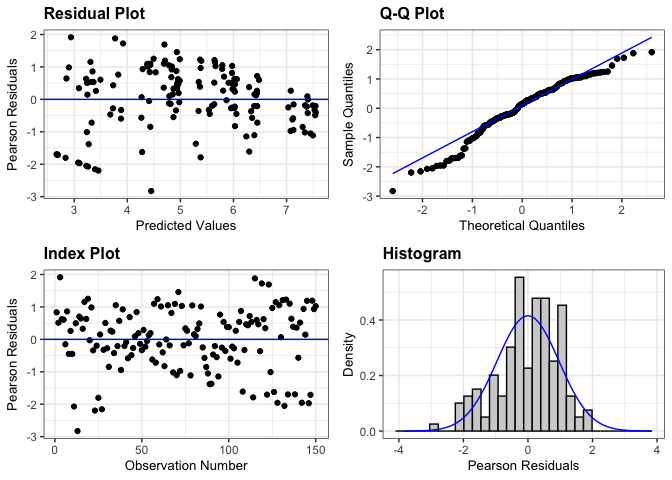
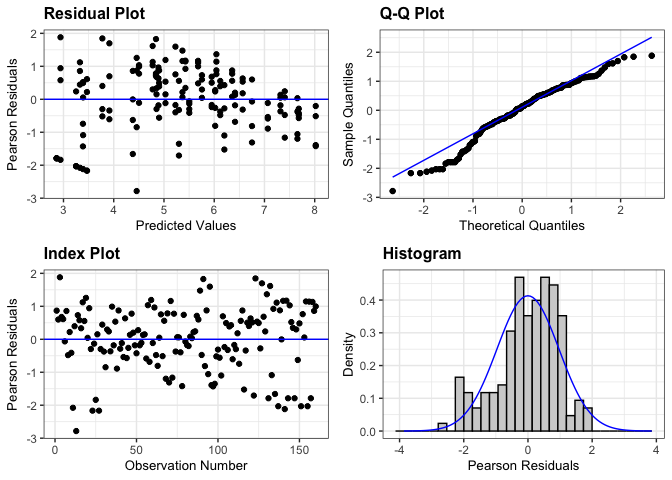
commit

diff --git a/rmarkdowns/weed_biomass_2023.md b/rmarkdowns/weed_biomass_2023.md
@@ -134,7 +134,7 @@ all_clean_2023 <- clean_names(all_raw_2023) |>
 #select and convert data for wbm analysis
   
 all_wbm_clean_2023 <-all_clean_2023 |>              
-  filter(is_outlier == FALSE) |>              # Keep rows where beanyd is not an outlier
+  #filter(is_outlier == FALSE) |>              # Keep rows where beanyd is not an outlier
   filter(weeds %in% c("SW", "M")) |>       # Keep rows where SW and M are microplots
   mutate(wbm_grams_meter = (wbm * 2)) |> 
   mutate(wbm_kg_ha = ((wbm/0.5) *(10000))/(1000)) |>
@@ -162,9 +162,9 @@ levene_test((wbm_kg_ha) ~ loc, data = all_wbm_clean_2023)
 ```
 
     ## # A tibble: 1 × 4
-    ##     df1   df2 statistic      p
-    ##   <int> <int>     <dbl>  <dbl>
-    ## 1     4   145      2.61 0.0380
+    ##     df1   df2 statistic         p
+    ##   <int> <int>     <dbl>     <dbl>
+    ## 1     4   155      7.24 0.0000225
 
 # **Model Testing**
 
@@ -220,15 +220,15 @@ resid_panel(log_all_wbm_fixed_2023)
   kable()  
 ```
 
-|     | model term       | df1 |   df2 | F.ratio |   p.value |
-|:----|:-----------------|----:|------:|--------:|----------:|
-| 1   | loc              |   4 | 13.59 |   3.971 | 0.0241923 |
-| 5   | mowing           |   3 | 42.89 |   9.187 | 0.0000821 |
-| 7   | weeds            |   1 | 58.36 |  64.757 | 0.0000000 |
-| 2   | loc:mowing       |  12 | 39.33 |   1.627 | 0.1236247 |
-| 4   | loc:weeds        |   4 | 52.31 |  10.953 | 0.0000016 |
-| 6   | mowing:weeds     |   3 | 57.04 |   4.876 | 0.0043591 |
-| 3   | loc:mowing:weeds |  12 | 52.31 |   1.570 | 0.1298184 |
+|     | model term       | df1 | df2 | F.ratio |   p.value |
+|:----|:-----------------|----:|----:|--------:|----------:|
+| 1   | loc              |   4 |  15 |   7.713 | 0.0013871 |
+| 5   | mowing           |   3 |  45 |   4.978 | 0.0045600 |
+| 7   | weeds            |   1 |  60 |  37.499 | 0.0000001 |
+| 2   | loc:mowing       |  12 |  45 |   1.016 | 0.4509978 |
+| 4   | loc:weeds        |   4 |  60 |   8.152 | 0.0000256 |
+| 6   | mowing:weeds     |   3 |  60 |   3.667 | 0.0170660 |
+| 3   | loc:mowing:weeds |  12 |  60 |   0.945 | 0.5093560 |
 
 <br>
 
@@ -243,14 +243,14 @@ pairwise_comparisons<- pairs(all_wbm_means_2023)
 kable(head(pairwise_comparisons))
 ```
 
-| contrast            |  estimate |       SE |        df |    t.ratio |   p.value |
-|:--------------------|----------:|---------:|----------:|-----------:|----------:|
-| CU AWC M - FH AWC M |  395.0000 | 258.2026 | 102.94873 |  1.5298065 | 0.5637705 |
-| CU AWC M - ME AWC M | -191.0441 | 279.3444 | 104.93229 | -0.6839016 | 0.9835208 |
-| CU AWC M - VT AWC M |  188.2500 | 258.2026 | 102.94873 |  0.7290787 | 0.9772289 |
-| CU AWC M - WI AWC M |  401.5000 | 258.2026 | 102.94873 |  1.5549805 | 0.5450756 |
-| CU AWC M - CU EWC M |   21.7000 | 244.6881 |  93.37742 |  0.0886843 | 0.9999999 |
-| CU AWC M - FH EWC M |  175.0500 | 258.2026 | 102.94873 |  0.6779560 | 0.9842472 |
+| contrast            | estimate |       SE |       df |    t.ratio |   p.value |
+|:--------------------|---------:|---------:|---------:|-----------:|----------:|
+| CU AWC M - FH AWC M |   395.00 | 380.6147 | 117.5160 |  1.0377950 | 0.8838517 |
+| CU AWC M - ME AWC M |  -620.25 | 380.6147 | 117.5160 | -1.6296009 | 0.4889977 |
+| CU AWC M - VT AWC M |   188.25 | 380.6147 | 117.5160 |  0.4945947 | 0.9970741 |
+| CU AWC M - WI AWC M |   401.50 | 380.6147 | 117.5160 |  1.0548726 | 0.8757979 |
+| CU AWC M - CU EWC M |    21.70 | 370.0094 | 102.8571 |  0.0586472 | 1.0000000 |
+| CU AWC M - FH EWC M |   175.05 | 380.6147 | 117.5160 |  0.4599140 | 0.9980462 |
 
 <br>
 
@@ -258,7 +258,7 @@ kable(head(pairwise_comparisons))
 
 ``` r
 #mowing
-cld_mowing_fisher <-cld(emmeans(all_wbm_fixed_2023, ~  mowing), Letters = letters, sort = TRUE, adjust="none", reversed=TRUE)
+cld_mowing_fisher <-cld(emmeans(all_wbm_fixed_2023, ~  mowing, type = "response"), Letters = letters, sort = TRUE, adjust="none", reversed=TRUE)
 ```
 
     ## NOTE: Results may be misleading due to involvement in interactions
@@ -268,14 +268,41 @@ cld_mowing_fisher
 ```
 
     ##  mowing emmean   SE   df lower.CL upper.CL .group
-    ##  EWC       679 62.4 52.8      554      805  a    
-    ##  NWC       620 65.0 57.7      490      750  ab   
-    ##  AWC       470 62.4 52.8      344      595   b   
-    ##  LWC       293 62.4 52.8      168      418    c  
+    ##  NWC       792 87.4 58.1      617      967  a    
+    ##  EWC       749 87.4 58.1      574      924  ab   
+    ##  AWC       552 87.4 58.1      377      727   bc  
+    ##  LWC       393 87.4 58.1      218      568    c  
     ## 
     ## Results are averaged over the levels of: loc, weeds 
     ## Degrees-of-freedom method: kenward-roger 
     ## Confidence level used: 0.95 
+    ## significance level used: alpha = 0.05 
+    ## NOTE: If two or more means share the same grouping symbol,
+    ##       then we cannot show them to be different.
+    ##       But we also did not show them to be the same.
+
+``` r
+log_cld_mowing_fisher <- cld(emmeans(log_all_wbm_fixed_2023, ~  mowing, type = "response"), Letters = letters, sort = TRUE, adjust="none", reversed=TRUE)
+```
+
+    ## NOTE: Results may be misleading due to involvement in interactions
+
+``` r
+log_cld_mowing_fisher
+```
+
+    ##  mowing response   SE   df lower.CL upper.CL .group
+    ##  EWC         354 74.8 57.6    231.9      540  a    
+    ##  NWC         241 51.1 57.6    157.9      368  ab   
+    ##  AWC         190 40.2 57.6    124.2      290   b   
+    ##  LWC         105 22.3 57.6     68.5      160    c  
+    ## 
+    ## Results are averaged over the levels of: loc, weeds 
+    ## Degrees-of-freedom method: kenward-roger 
+    ## Confidence level used: 0.95 
+    ## Intervals are back-transformed from the log(mu + 1) scale 
+    ## Note: contrasts are still on the log(mu + 1) scale. Consider using
+    ##       regrid() if you want contrasts of back-transformed estimates. 
     ## significance level used: alpha = 0.05 
     ## NOTE: If two or more means share the same grouping symbol,
     ##       then we cannot show them to be different.
@@ -292,9 +319,9 @@ cld_weeds_fisher <- cld(emmeans(all_wbm_fixed_2023, ~  weeds, type = ""), Letter
 cld_weeds_fisher
 ```
 
-    ##  weeds emmean   SE   df lower.CL upper.CL .group
-    ##  M        281 48.2 31.0      183      379   b   
-    ##  SW       750 49.0 32.7      650      850  a    
+    ##  weeds emmean SE df lower.CL upper.CL .group
+    ##  M        368 65 38      237      500   b   
+    ##  SW       875 65 38      744     1007  a    
     ## 
     ## Results are averaged over the levels of: loc, mowing 
     ## Degrees-of-freedom method: kenward-roger 
@@ -318,18 +345,18 @@ cld_mowing_weeds_fisher
 ```
 
     ## weeds = M:
-    ##  mowing emmean   SE  df lower.CL upper.CL .group
-    ##  EWC       477 84.4 104   309.61      644  a    
-    ##  AWC       269 84.4 104   101.16      436  ab   
-    ##  NWC       201 84.4 104    33.96      369   b   
-    ##  LWC       177 84.4 104     9.89      345   b   
+    ##  mowing emmean  SE  df lower.CL upper.CL .group
+    ##  EWC       530 120 118    291.8      769  a    
+    ##  AWC       354 120 118    116.0      593  a    
+    ##  NWC       311 120 118     72.6      549  a    
+    ##  LWC       278 120 118     40.0      517  a    
     ## 
     ## weeds = SW:
-    ##  mowing emmean   SE  df lower.CL upper.CL .group
-    ##  NWC      1039 92.1 107   856.36     1221  a    
-    ##  EWC       882 84.4 104   714.41     1049  ab   
-    ##  AWC       670 84.4 104   503.14      838   b   
-    ##  LWC       409 84.4 104   241.91      577    c  
+    ##  mowing emmean  SE  df lower.CL upper.CL .group
+    ##  NWC      1274 120 118   1035.2     1512  a    
+    ##  EWC       968 120 118    729.6     1206  ab   
+    ##  AWC       750 120 118    512.0      989   bc  
+    ##  LWC       509 120 118    270.2      747    c  
     ## 
     ## Results are averaged over the levels of: loc 
     ## Degrees-of-freedom method: kenward-roger 
@@ -347,73 +374,73 @@ cld_mowing_weeds_loc_fisher
 
     ## weeds = M, loc = CU:
     ##  mowing emmean  SE  df lower.CL upper.CL .group
-    ##  AWC     427.2 183 103     65.1      789  a    
-    ##  NWC     406.2 183 103     44.1      768  a    
-    ##  EWC     405.6 183 103     43.4      768  a    
-    ##  LWC     324.8 183 103    -37.3      687  a    
+    ##  AWC     427.2 269 118   -105.7      960  a    
+    ##  NWC     406.2 269 118   -126.7      939  a    
+    ##  EWC     405.6 269 118   -127.4      939  a    
+    ##  LWC     324.8 269 118   -208.2      858  a    
     ## 
     ## weeds = SW, loc = CU:
     ##  mowing emmean  SE  df lower.CL upper.CL .group
-    ##  EWC    1365.1 183 103   1003.0     1727  a    
-    ##  NWC    1088.0 183 103    725.8     1450  a    
-    ##  LWC     562.8 183 103    200.6      925   b   
-    ##  AWC     552.8 183 103    190.6      915   b   
+    ##  EWC    1365.1 269 118    832.1     1898  a    
+    ##  NWC    1088.0 269 118    555.0     1621  ab   
+    ##  LWC     562.8 269 118     29.8     1096   b   
+    ##  AWC     552.8 269 118     19.8     1086   b   
     ## 
     ## weeds = M, loc = FH:
     ##  mowing emmean  SE  df lower.CL upper.CL .group
-    ##  EWC     252.2 183 103   -109.9      614  a    
-    ##  LWC     128.8 183 103   -233.4      491  a    
-    ##  NWC      83.0 183 103   -279.2      445  a    
-    ##  AWC      32.2 183 103   -329.9      394  a    
+    ##  EWC     252.2 269 118   -280.8      785  a    
+    ##  LWC     128.8 269 118   -404.2      662  a    
+    ##  NWC      83.0 269 118   -450.0      616  a    
+    ##  AWC      32.2 269 118   -500.7      565  a    
     ## 
     ## weeds = SW, loc = FH:
     ##  mowing emmean  SE  df lower.CL upper.CL .group
-    ##  EWC     671.4 183 103    309.3     1034  a    
-    ##  NWC     605.0 183 103    242.9      967  ab   
-    ##  LWC     208.9 183 103   -153.2      571  ab   
-    ##  AWC     174.1 183 103   -188.0      536   b   
+    ##  EWC     671.4 269 118    138.4     1204  a    
+    ##  NWC     605.0 269 118     72.1     1138  a    
+    ##  LWC     208.9 269 118   -324.0      742  a    
+    ##  AWC     174.1 269 118   -358.9      707  a    
     ## 
     ## weeds = M, loc = ME:
     ##  mowing emmean  SE  df lower.CL upper.CL .group
-    ##  EWC    1334.3 211 106    915.1     1753  a    
-    ##  AWC     618.3 211 106    199.1     1037   b   
-    ##  LWC     397.6 211 106    -21.5      817   b   
-    ##  NWC     267.6 211 106   -151.5      687   b   
+    ##  EWC    1600.5 269 118   1067.5     2133  a    
+    ##  AWC    1047.5 269 118    514.5     1580  ab   
+    ##  LWC     903.0 269 118    370.0     1436  ab   
+    ##  NWC     816.0 269 118    283.0     1349   b   
     ## 
     ## weeds = SW, loc = ME:
     ##  mowing emmean  SE  df lower.CL upper.CL .group
-    ##  AWC     911.3 211 106    492.2     1330  a    
-    ##  NWC     630.7 211 106    211.5     1050  ab   
-    ##  EWC     591.3 211 106    172.2     1010  ab   
-    ##  LWC     338.0 211 106    -81.2      757   b   
+    ##  AWC    1310.5 269 118    777.5     1843  a    
+    ##  NWC    1043.0 269 118    510.0     1576  a    
+    ##  EWC    1022.5 269 118    489.5     1555  a    
+    ##  LWC     834.5 269 118    301.5     1367  a    
     ## 
     ## weeds = M, loc = VT:
     ##  mowing emmean  SE  df lower.CL upper.CL .group
-    ##  EWC     286.0 183 103    -76.1      648  a    
-    ##  NWC     240.5 183 103   -121.6      603  a    
-    ##  AWC     239.0 183 103   -123.1      601  a    
-    ##  LWC      35.0 183 103   -327.1      397  a    
+    ##  EWC     286.0 269 118   -247.0      819  a    
+    ##  NWC     240.5 269 118   -292.5      773  a    
+    ##  AWC     239.0 269 118   -294.0      772  a    
+    ##  LWC      35.0 269 118   -498.0      568  a    
     ## 
     ## weeds = SW, loc = VT:
     ##  mowing emmean  SE  df lower.CL upper.CL .group
-    ##  NWC    1252.5 183 103    890.4     1615  a    
-    ##  AWC     639.0 183 103    276.9     1001   b   
-    ##  EWC     355.5 183 103     -6.6      718   b   
-    ##  LWC     160.0 183 103   -202.1      522   b   
+    ##  NWC    1252.5 269 118    719.5     1785  a    
+    ##  AWC     639.0 269 118    106.0     1172  ab   
+    ##  EWC     355.5 269 118   -177.5      888   b   
+    ##  LWC     160.0 269 118   -373.0      693   b   
     ## 
     ## weeds = M, loc = WI:
     ##  mowing emmean  SE  df lower.CL upper.CL .group
-    ##  EWC     106.8 183 103   -255.4      469  a    
-    ##  AWC      25.8 183 103   -336.4      388  a    
-    ##  NWC       9.2 183 103   -352.9      371  a    
-    ##  LWC       0.0 183 103   -362.1      362  a    
+    ##  EWC     106.8 269 118   -426.2      640  a    
+    ##  AWC      25.8 269 118   -507.2      559  a    
+    ##  NWC       9.2 269 118   -523.8      542  a    
+    ##  LWC       0.0 269 118   -533.0      533  a    
     ## 
     ## weeds = SW, loc = WI:
     ##  mowing emmean  SE  df lower.CL upper.CL .group
-    ##  NWC    1618.3 259 110   1104.5     2132  a    
-    ##  EWC    1425.5 183 103   1063.4     1788  a    
-    ##  AWC    1075.3 183 103    713.2     1437  ab   
-    ##  LWC     776.6 183 103    414.5     1139   b   
+    ##  NWC    2379.2 269 118   1846.2     2912  a    
+    ##  EWC    1425.5 269 118    892.5     1958   b   
+    ##  AWC    1075.3 269 118    542.3     1608   b   
+    ##  LWC     776.6 269 118    243.6     1310   b   
     ## 
     ## Degrees-of-freedom method: kenward-roger 
     ## Confidence level used: 0.95 
@@ -458,7 +485,7 @@ all_wbm_clean_2023 |>
 ggsave("wbm_plot_mowing.png", width = 8, height = 6, dpi = 300)
 ```
 
-## **Mowing**
+## **Mowing\|weeds**
 
 ``` r
 all_wbm_clean_2023 |> 
